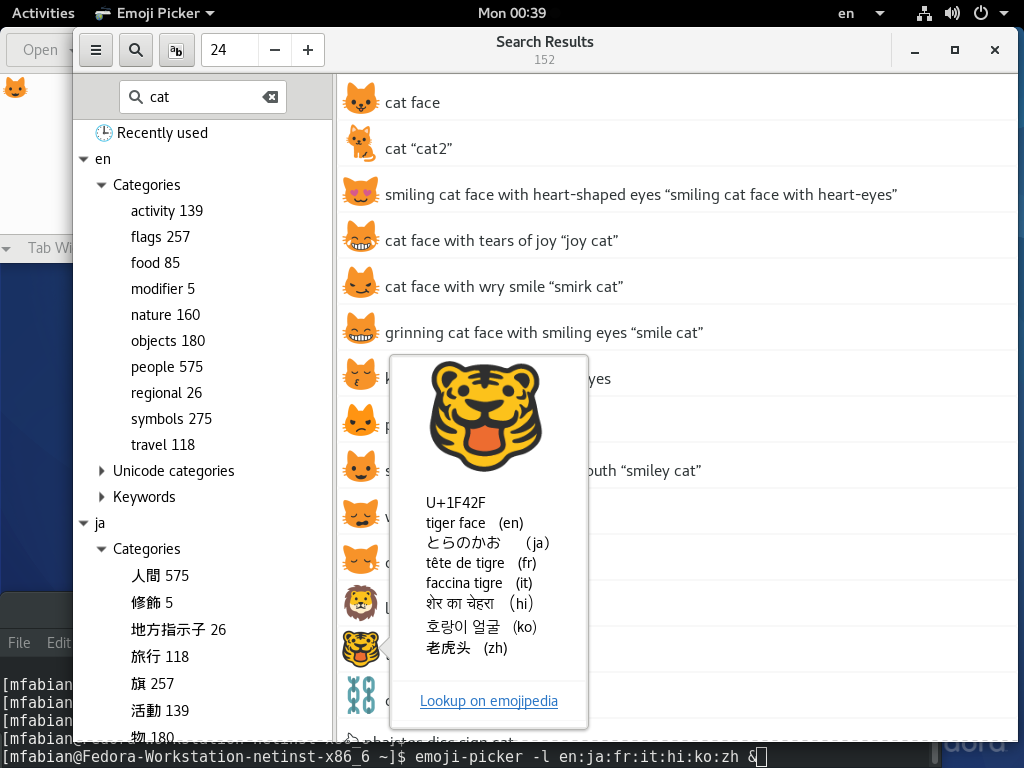
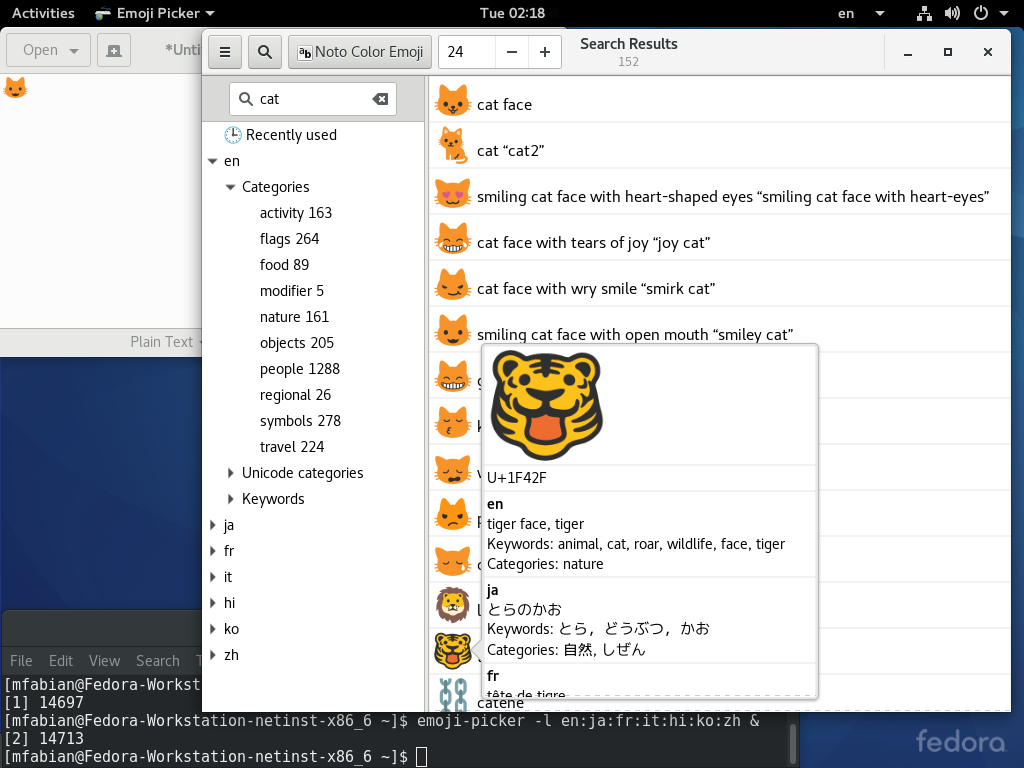
Update screenshots of emoji-picker and update documentation text for 1.5.30

Changed region(s): [[0.0, 0.0, 1.0, 1.0], [0.7188, 0.4062, 0.7812, 0.4688], [0.9062, 0.0312, 0.9375, 0.0625]]

diff --git a/documentation.html b/documentation.html
@@ -2200,32 +2200,60 @@ keyboard input without any transliteration).</p>
   middle mouse button.
 </p>
 <p>
-  Hovering with the mouse over an emoji shown in “emoji-picker” shows
-  a tooltip which shows the emoji much bigger and some extra
-  information about that emoji, like the Unicode code point and the
-  name of the emoji in different languages.
+  Clicking the right mouse button on an emoji shown in “emoji-picker”
+  shows the emoji much bigger and some extra information about that
+  emoji, like the Unicode code point(s), the name and search keywords
+  of the emoji in all chosen languages, the fonts really used to
+  render this emoji, the Unicode version this emoji first appeared in,
+  and a link to lookup this emoji in emojipedia.
 </p>
 <p>
-  “emoji-picker” has some command line options to choose the languages, the font
-  and the fontsize. For example, <code>emoji-picker --languages
-  de:en:fr</code> would enable you to use German, English, and French
-  to browse and search for emoji and display the names of the emoji in
-  all of these languages. If the command line option is not used, the
-  languages are taken from the environment
-  variables. The <code>LANGUAGE</code> variable works as well. For
-  example, <code>LANGUAGE=de:en:fr emoji-picker</code> also chooses
-  German, English, and French. And, <code>LANG=de_DE.UTF-8 emoji-picker</code>
-  would choose only German (English is always implicitly added though.)
+  The fonts really used to render an emoji may differ from the font
+  chosen in the user interface of emoji picker because:
+</p>
+<ul>
+  <li>
+    The chosen font may have no glyph for a certain emoji. In that
+    case, if there is any other font installed on the system which
+    has that emoji, a fallback font will be used to render the
+    emoji. The info popover shown on right mouse click will show
+    which font was really used, i.e.  it enables one to see which
+    font was used as a fallback.
+  </li>
+  <li>
+    Some emoji are sequences of several code points and with some
+    fonts (or when there are bugs in the rendering system), it may not
+    be possible to render the sequence correctly and one may see
+    individual parts of the sequence rendered seperately, possibly
+    even different parts of the sequence in different fonts. The info
+    popover shown on right mouse click shows which font was used for
+    which part of the sequence which is helpful to debug such
+    problems.
+  </li>
+</ul>
+<p>
+  “emoji-picker” has some command line options to choose the
+  languages, the font and the fontsize. For
+  example, <code>emoji-picker --languages de:en:fr</code> would enable
+  you to use German, English, and French to browse and search for
+  emoji and display the names of the emoji in all of these
+  languages. If the command line option is not used, the languages are
+  taken from the environment variables. The <code>LANGUAGE</code>
+  variable works as well. For example, <code>LANGUAGE=de:en:fr
+  emoji-picker</code> also chooses German, English, and
+  French. And, <code>LANG=de_DE.UTF-8 emoji-picker</code> would choose
+  only German (English is always implicitly added though.)
 </p>
 <p>
-  To choose a different font or font size than the  default one  can use
-  something like:
-  <code>emoji-picker --font "Symbola" --fontsize 32</code>
+  The command line options to choose a different font or font size
+  can be used like this:
+  <code>emoji-picker --font "Noto Color Emoji" --fontsize 32</code>
+  The command line font optionis override the font options in the
+  graphical user interface.
 </p>
 <p>
-  “Symbola”
-  is a good black and white font for emoji. If you want the emoji in
-  colour, see <a href="#color-emoji">Showing emoji in colour</a>.
+  For more about emoji fonts and colour,
+  see <a href="#emoji-fonts">Emoji fonts</a>.
 </p>
 
 <br class="clearboth">
@@ -2272,7 +2300,8 @@ keyboard input without any transliteration).</p>
 <p>
   Emoji can also be selected with different skin tones.  If the mouse
   hovers over an emoji for which different skin tones are available, a
-  tooltip says “Middle click for skin tones”. Clicking such an emoji
+  tooltip says “Long press or middle click for skin tones”. Long
+  pressing such an emoji with the left mouse button or clicking it
   with the middle mouse button pops up a menu showing all the skin
   tone variants. One can then click on any variant with the left mouse
   button to put it into the clipboard and paste it elsewhere.
